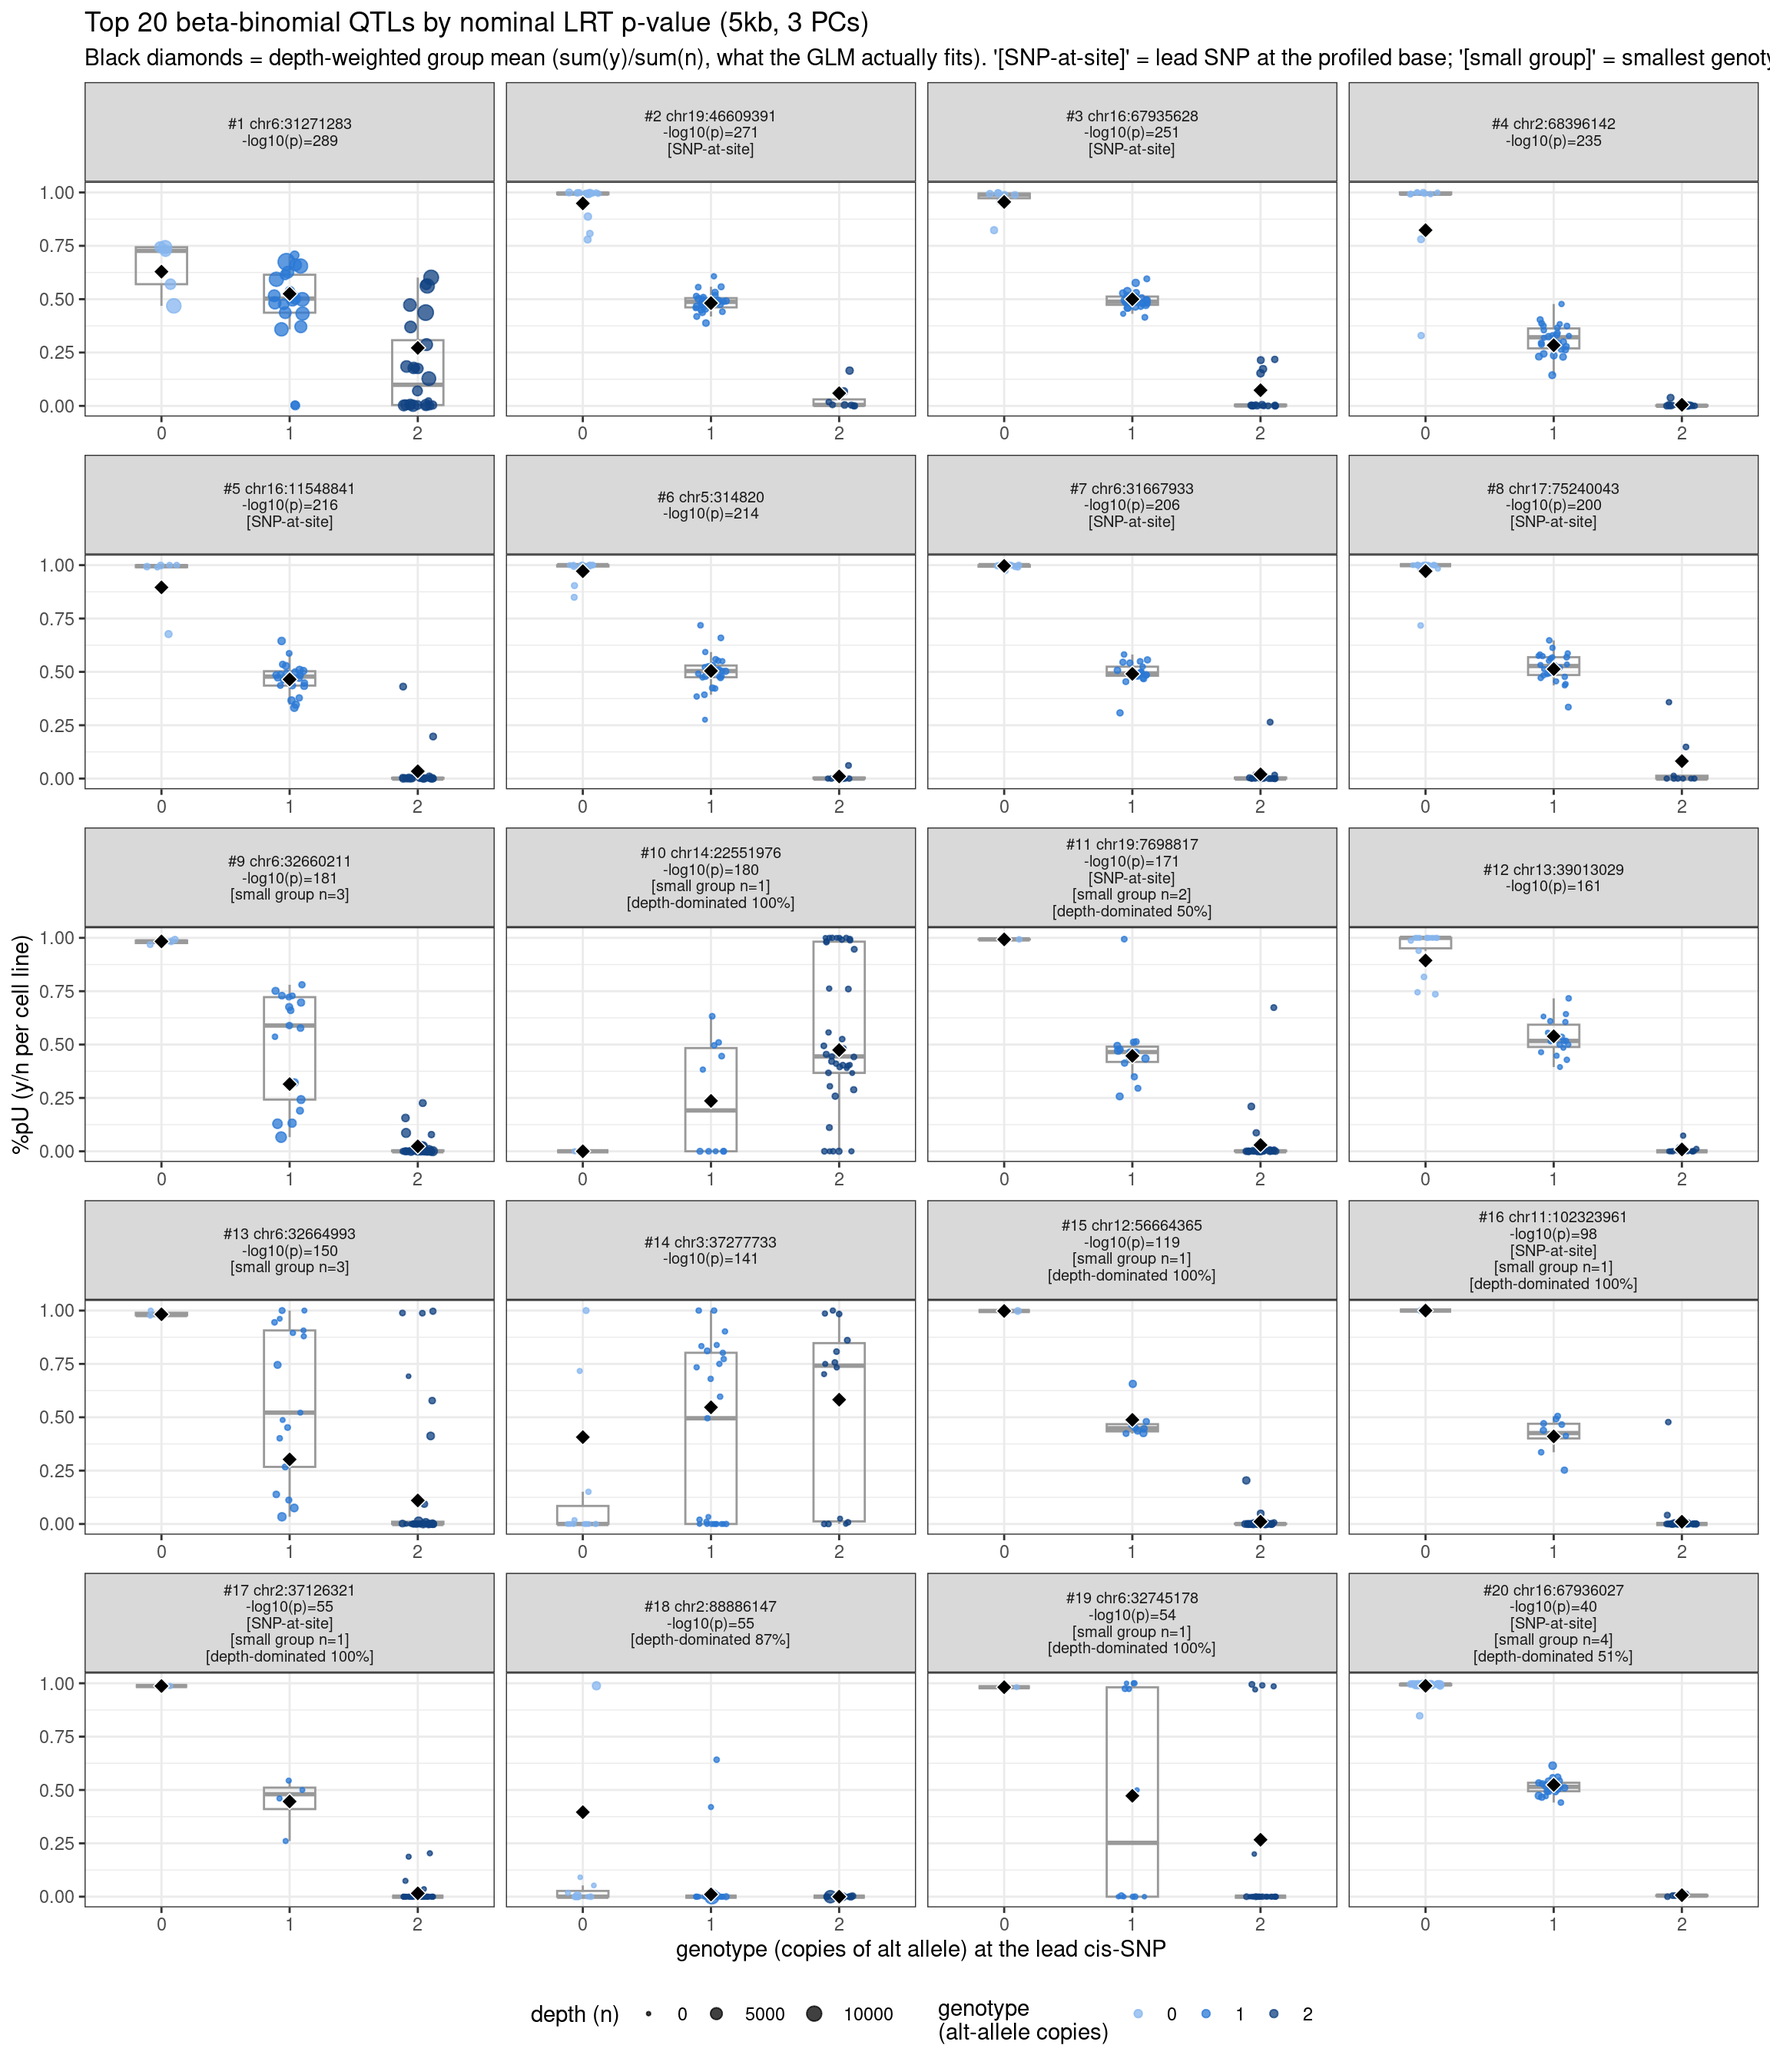
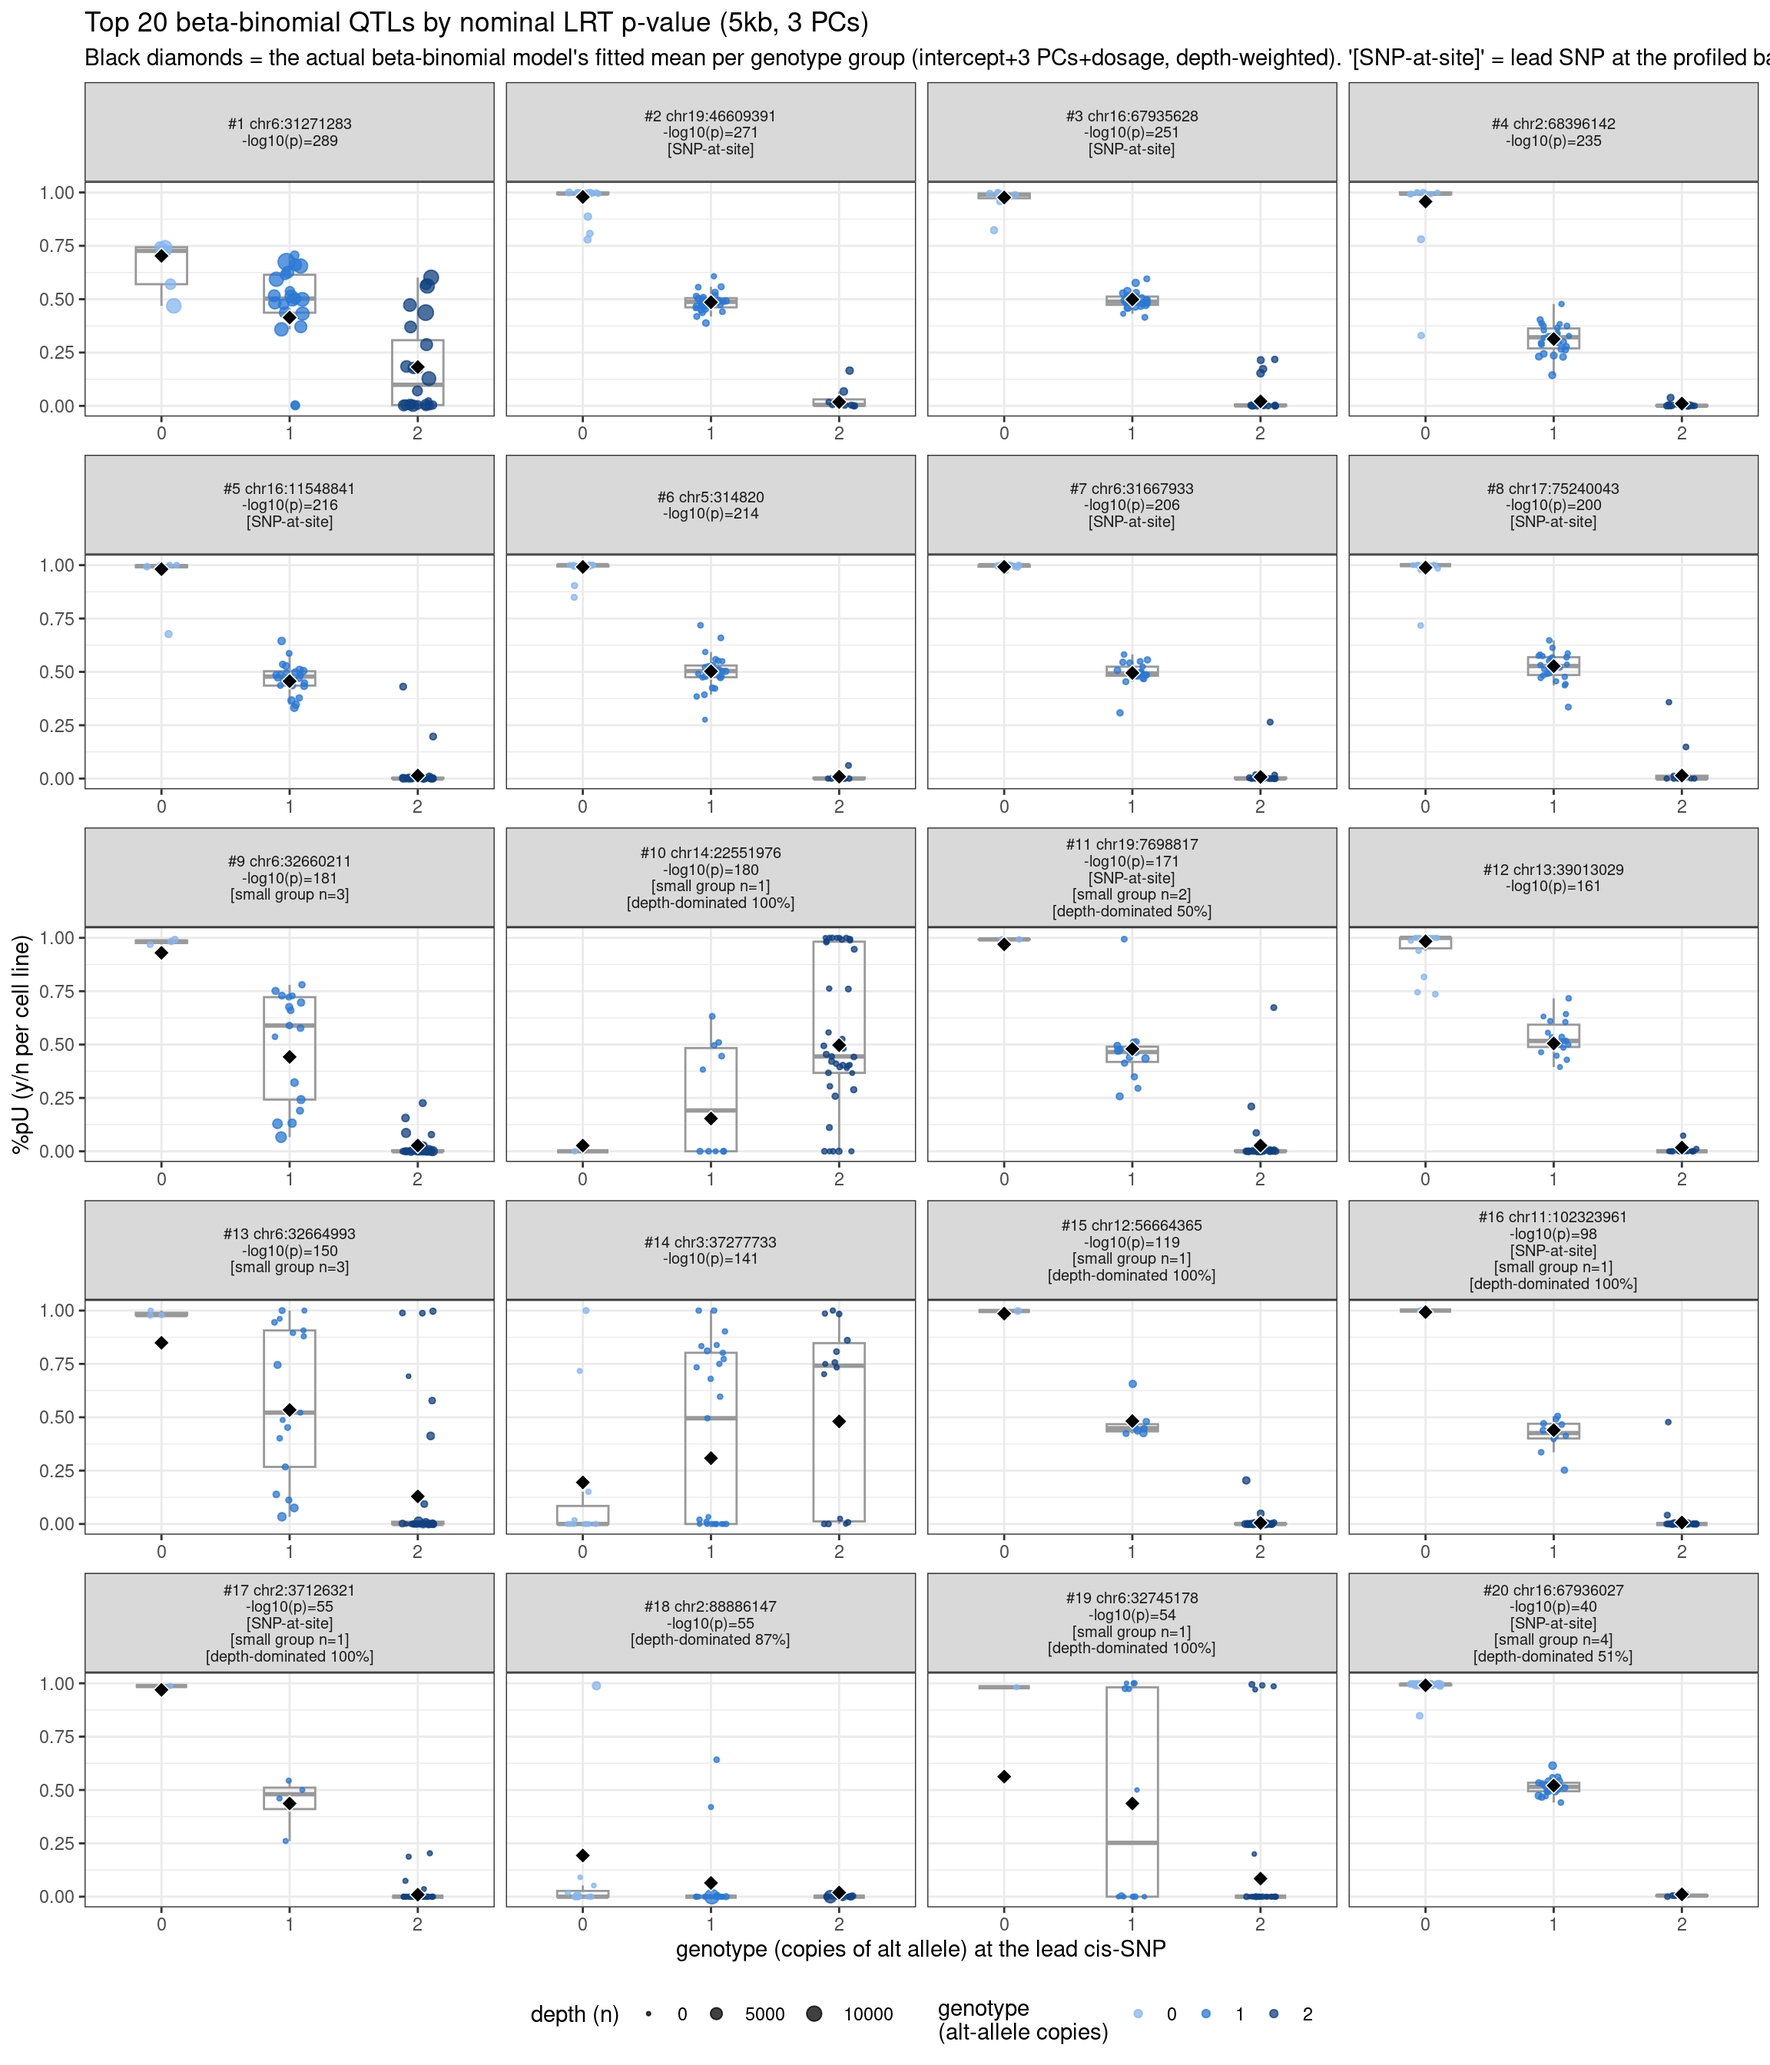
update

Changed region(s): [[0.1562, 0.0, 1.0, 0.0312]]

diff --git a/docs/qtl_mapping_betabinomial_diagnostic.html b/docs/qtl_mapping_betabinomial_diagnostic.html
@@ -537,15 +537,15 @@ project makes it easier to run your code on other machines.</p>
 <div class="panel panel-default">
 <div class="panel-heading">
 <p class="panel-title">
-<a data-toggle="collapse" data-parent="#workflowr-checks" href="#strongRepositoryversionstrongahrefhttpsgithubcomxsun1229pumseqtreec836d6a7345ec3c6d478219bf5874f297473312ftargetblankc836d6aa">
+<a data-toggle="collapse" data-parent="#workflowr-checks" href="#strongRepositoryversionstrongahrefhttpsgithubcomxsun1229pumseqtree1ba19a8f317db5d2ade58457bcd54c3838b92545targetblank1ba19a8a">
 <span class="glyphicon glyphicon-ok text-success"
 aria-hidden="true"></span> <strong>Repository version:</strong>
-<a href="https://github.com/xsun1229/pumseq/tree/c836d6a7345ec3c6d478219bf5874f297473312f" target="_blank">c836d6a</a>
+<a href="https://github.com/xsun1229/pumseq/tree/1ba19a8f317db5d2ade58457bcd54c3838b92545" target="_blank">1ba19a8</a>
 </a>
 </p>
 </div>
 <div
[2 lines of base64/hex data omitted]
 class="panel-collapse collapse">
 <div class="panel-body">
 <p>
@@ -555,7 +555,7 @@ reproducibility.
 </p>
 <p>
 The results in this page were generated with repository version
-<a href="https://github.com/xsun1229/pumseq/tree/c836d6a7345ec3c6d478219bf5874f297473312f" target="_blank">c836d6a</a>.
+<a href="https://github.com/xsun1229/pumseq/tree/1ba19a8f317db5d2ade58457bcd54c3838b92545" target="_blank">1ba19a8</a>.
 See the <em>Past versions</em> tab to see a history of the changes made
 to the R Markdown and HTML files.
 </p>
@@ -573,9 +573,7 @@ Ignored files:
     Ignored:    analysis/qtl_mapping_summary_cache/
 
 Unstaged changes:
-    Modified:   analysis/index.Rmd
     Modified:   analysis/qtl_mapping_betabinomial_diagnostic.Rmd
-    Deleted:    analysis/qtl_mapping_betabinomial_diagnostic.knit.md
 
 </code></pre>
 <p>
@@ -622,6 +620,40 @@ Message
 </tr>
 </thead>
 <tbody>
+<tr>
+<td>
+Rmd
+</td>
+<td>
+<a href="https://github.com/xsun1229/pumseq/blob/1ba19a8f317db5d2ade58457bcd54c3838b92545/analysis/qtl_mapping_betabinomial_diagnostic.Rmd" target="_blank">1ba19a8</a>
+</td>
+<td>
+XSun
+</td>
+<td>
+2026-08-01
+</td>
+<td>
+update
+</td>
+</tr>
+<tr>
+<td>
+html
+</td>
+<td>
+<a href="https://rawcdn.githack.com/xsun1229/pumseq/1ba19a8f317db5d2ade58457bcd54c3838b92545/docs/qtl_mapping_betabinomial_diagnostic.html" target="_blank">1ba19a8</a>
+</td>
+<td>
+XSun
+</td>
+<td>
+2026-08-01
+</td>
+<td>
+update
+</td>
+</tr>
 <tr>
 <td>
 Rmd
@@ -836,10 +868,27 @@ effect.</p>
 <div id="top-20-qtls-pu-by-genotype-at-the-lead-cis-snp"
 class="section level1">
 <h1>2. Top 20 QTLs: %pU by genotype at the lead cis-SNP</h1>
-<pre class="r"><code>C &lt;- fread(file.path(COUNTS, &quot;C_matrix.txt.gz&quot;)); N &lt;- fread(file.path(COUNTS, &quot;N_matrix.txt.gz&quot;))
+<p>Each panel below marks a black diamond per genotype group: the
+group’s depth-weighted average of the <strong>actual beta-binomial
+model’s fitted mean</strong> (same design as the real scan — intercept +
+3 M-value PCs + genotype dosage — refit here with
+<code>fit_bb_mle()</code>), not just a visual summary of the raw
+scatter. An earlier version of this page used a simpler proxy
+(<code>sum(y)/sum(n)</code> per group, ignoring the PC covariates and
+dispersion correction); checking that proxy against this true fit
+directly showed agreement at low-dispersion sites but a gap of up to
+~0.13 in probability at higher-<code>phi</code> sites, so the actual
+model fit is shown here instead.</p>
+<pre class="r"><code>source(file.path(PROJECT_DIR, &quot;4.qtl_mapping_betabinomial/betabin_lib.R&quot;))
+COVAR &lt;- file.path(BASE, &quot;phenotype/fold5_union/mvalue_pcs.txt&quot;)
+
+C &lt;- fread(file.path(COUNTS, &quot;C_matrix.txt.gz&quot;)); N &lt;- fread(file.path(COUNTS, &quot;N_matrix.txt.gz&quot;))
 psam &lt;- fread(PSAM); go &lt;- psam[[2]]
 Cm &lt;- as.matrix(C[, ..go]); Nm &lt;- as.matrix(N[, ..go])
 sites &lt;- C[, .(ref = as.character(ref), pos = as.integer(pos))]
+
+cov &lt;- fread(COVAR); stopifnot(identical(cov$sample, go))
+Xcov &lt;- cbind(Intercept = 1, as.matrix(cov[, paste0(&quot;PC&quot;, seq_len(NPCS)), with = FALSE]))   # same design the actual scan uses
 
 traw &lt;- fread(TRAW); samp &lt;- paste0(go, &quot;_&quot;, go)
 Gall &lt;- t(as.matrix(traw[, ..samp])); gid &lt;- traw$SNP</code></pre>
@@ -865,20 +914,27 @@ rows &lt;- rbindlist(lapply(seq_len(nrow(top20)), function(i) {
     if (min_grp &lt; MIN_GRP) sprintf(&quot;\n[small group n=%d]&quot;, min_grp) else &quot;&quot;,
     if (max_depth_share &gt; DEPTH_SHARE_THRESH) sprintf(&quot;\n[depth-dominated %.0f%%]&quot;, 100 * max_depth_share) else &quot;&quot;
   )
+  # true full-model fitted mean per individual (intercept + NPCS M-value PCs +
+  # genotype dosage -- the EXACT design the LRT scan itself uses), not a naive
+  # binomial-only proxy: checked directly (see prose below) that a simpler
+  # sum(y)/sum(n) per-group proxy can be off by up to ~0.13 in probability at
+  # higher-phi sites, since it ignores both the PC covariates and the
+  # dispersion correction that this fit applies
+  fit &lt;- tryCatch(fit_bb_mle(y, n, cbind(Xcov, g = g)), error = function(e) NULL)
+  mu_fit &lt;- if (!is.null(fit)) fit$mu0 else rep(NA_real_, length(y))
   data.table(
     rank = s$rank,
     site_lab = sprintf(&quot;#%d chr%s:%.0f\n-log10(p)=%.0f%s&quot;,
                         s$rank, s$ref, s$pos, -log10(max(s$nominal_min_p, 1e-300)), flags),
-    g = factor(g, levels = 0:2), pi = pi_v, n = n, y = y,
+    g = factor(g, levels = 0:2), pi = pi_v, n = n, y = y, mu_fit = mu_fit,
     snp_at_site = s$lead_pos == s$pos, min_grp = min_grp, max_depth_share = max_depth_share
   )
 }))
 rows[, site_lab := factor(site_lab, levels = unique(site_lab[order(rank)]))]
 
-# depth-weighted mean per (site, genotype group) -- sum(y)/sum(n), the exact
-# quantity a binomial/beta-binomial GLM fits as that group&#39;s mean (verified
-# directly against glm() fitted values in the conversation behind this page)
-dw_means &lt;- rows[, .(dw_mean = sum(y) / sum(n)), by = .(site_lab, g)]
+# per-group depth-weighted average of the TRUE model-fitted mean (not the
+# raw observed y/n) -- this is what actually enters the LRT&#39;s log-likelihood
+dw_means &lt;- rows[!is.na(mu_fit), .(dw_mean = sum(mu_fit * n) / sum(n)), by = .(site_lab, g)]
 
 blue3 &lt;- c(`0` = &quot;#86b6ef&quot;, `1` = &quot;#2a78d6&quot;, `2` = &quot;#104281&quot;)
 
@@ -893,7 +949,7 @@ ggplot(rows, aes(x = g, y = pi, color = g)) +
   labs(x = &quot;genotype (copies of alt allele) at the lead cis-SNP&quot;, y = &quot;%pU (y/n per cell line)&quot;,
        title = sprintf(&quot;Top %d beta-binomial QTLs by nominal LRT p-value (%dkb, %d PCs)&quot;,
                        N_TOP, WINDOW_KB, NPCS),
-       subtitle = &quot;Black diamonds = depth-weighted group mean (sum(y)/sum(n), what the GLM actually fits). &#39;[SNP-at-site]&#39; = lead SNP at the profiled base; &#39;[small group]&#39; = smallest genotype class &lt;5 cell lines; &#39;[depth-dominated]&#39; = one cell line &gt;50% of its group&#39;s total depth.&quot;) +
+       subtitle = &quot;Black diamonds = the actual beta-binomial model&#39;s fitted mean per genotype group (intercept+3 PCs+dosage, depth-weighted). &#39;[SNP-at-site]&#39; = lead SNP at the profiled base; &#39;[small group]&#39; = smallest genotype class &lt;5 cell lines; &#39;[depth-dominated]&#39; = one cell line &gt;50% of its group&#39;s total depth.&quot;) +
   theme_bw(base_size = 11) +
   theme(legend.position = &quot;bottom&quot;, strip.text = element_text(size = 7.5))</code></pre>
 <p><img src="figure/qtl_mapping_betabinomial_diagnostic.Rmd/top20-select-1.png" width="1152" style="display: block; margin: auto;" /></p>
@@ -919,6 +975,17 @@ Date
 </tr>
 </thead>
 <tbody>
+<tr>
+<td>
+<a href="https://github.com/xsun1229/pumseq/blob/1ba19a8f317db5d2ade58457bcd54c3838b92545/docs/figure/qtl_mapping_betabinomial_diagnostic.Rmd/top20-select-1.png" target="_blank">1ba19a8</a>
+</td>
+<td>
+XSun
+</td>
+<td>
+2026-08-01
+</td>
+</tr>
 <tr>
 <td>
 <a href="https://github.com/xsun1229/pumseq/blob/4fa878a14a65f49627dd80cd86e3539fbfee3cff/docs/figure/qtl_mapping_betabinomial_diagnostic.Rmd/top20-select-1.png" target="_blank">4fa878a</a>
@@ -1208,6 +1275,7 @@ rows_p1 &lt;- rbindlist(lapply(seq_len(nrow(p1_top20)), function(i) {
   si &lt;- which(sites$ref == as.character(s$ref) &amp; sites$pos == s$pos)
   gi &lt;- which(gid == s$lead_snp)
   y &lt;- Cm[si, ord]; n &lt;- Nm[si, ord]; g &lt;- Gall[, gi]   # phenotype permuted, genotype fixed -- same pairing as the calibration check
+  Xp &lt;- Xcov[ord, , drop = FALSE]   # covariates travel WITH the permuted phenotype, same rule as the calibration check
   pi_v &lt;- y / n
   grp_tab &lt;- table(g)
   min_grp &lt;- min(grp_tab)
@@ -1218,16 +1286,18 @@ rows_p1 &lt;- rbindlist(lapply(seq_len(nrow(p1_top20)), function(i) {
     if (min_grp &lt; MIN_GRP) sprintf(&quot;\n[small group n=%d]&quot;, min_grp) else &quot;&quot;,
     if (max_depth_share &gt; DEPTH_SHARE_THRESH) sprintf(&quot;\n[depth-dominated %.0f%%]&quot;, 100 * max_depth_share) else &quot;&quot;
   )
+  fit &lt;- tryCatch(fit_bb_mle(y, n, cbind(Xp, g = g)), error = function(e) NULL)
+  mu_fit &lt;- if (!is.null(fit)) fit$mu0 else rep(NA_real_, length(y))
   data.table(
     rank = s$rank,
     site_lab = sprintf(&quot;#%d chr%s:%.0f\n-log10(p)=%.0f%s&quot;,
                         s$rank, s$ref, s$pos, -log10(max(s$nominal_min_p, 1e-300)), flags),
-    g = factor(g, levels = 0:2), pi = pi_v, n = n, y = y
+    g = factor(g, levels = 0:2), pi = pi_v, n = n, y = y, mu_fit = mu_fit
   )
 }))
 rows_p1[, site_lab := factor(site_lab, levels = unique(site_lab[order(rank)]))]
 
-dw_means_p1 &lt;- rows_p1[, .(dw_mean = sum(y) / sum(n)), by = .(site_lab, g)]
+dw_means_p1 &lt;- rows_p1[!is.na(mu_fit), .(dw_mean = sum(mu_fit * n) / sum(n)), by = .(site_lab, g)]
 
 ggplot(rows_p1, aes(x = g, y = pi, color = g)) +
   geom_boxplot(aes(group = g), outlier.shape = NA, width = 0.4, color = &quot;grey60&quot;, fill = NA) +
@@ -1240,10 +1310,47 @@ ggplot(rows_p1, aes(x = g, y = pi, color = g)) +
   labs(x = &quot;genotype (fixed) vs. PERMUTED phenotype at the lead cis-SNP&quot;,
        y = &quot;%pU (y/n per cell line, permuted individual order)&quot;,
        title = sprintf(&quot;Top %d sites under permutation-1 (genotype-phenotype pairing randomized)&quot;, N_TOP),
-       subtitle = &quot;Black diamonds = depth-weighted group mean (sum(y)/sum(n), what the GLM actually fits). Same seed as the LRT calibration check&#39;s perm1 (set.seed(1001)).&quot;) +
+       subtitle = &quot;Black diamonds = the actual beta-binomial model&#39;s fitted mean per genotype group (intercept+3 PCs+dosage, depth-weighted; covariates permuted with phenotype, genotype fixed). Same seed as the LRT calibration check&#39;s perm1 (set.seed(1001)).&quot;) +
   theme_bw(base_size = 11) +
   theme(legend.position = &quot;bottom&quot;, strip.text = element_text(size = 7.5))</code></pre>
 <p><img src="figure/qtl_mapping_betabinomial_diagnostic.Rmd/perm1-plot-1.png" width="1152" style="display: block; margin: auto;" /></p>
+<p>
+<button type="button" class="btn btn-default btn-xs btn-workflowr btn-workflowr-fig" data-toggle="collapse" data-target="#fig-perm1-plot-1">
+Past versions of perm1-plot-1.png
+</button>
+</p>
+<div id="fig-perm1-plot-1" class="collapse">
+<div class="table-responsive">
+<table class="table table-condensed table-hover">
+<thead>
+<tr>
+<th>
+Version
+</th>
+<th>
+Author
+</th>
+<th>
+Date
+</th>
+</tr>
+</thead>
+<tbody>
+<tr>
+<td>
+<a href="https://github.com/xsun1229/pumseq/blob/1ba19a8f317db5d2ade58457bcd54c3838b92545/docs/figure/qtl_mapping_betabinomial_diagnostic.Rmd/perm1-plot-1.png" target="_blank">1ba19a8</a>
+</td>
+<td>
+XSun
+</td>
+<td>
+2026-08-01
+</td>
+</tr>
+</tbody>
+</table>
+</div>
+</div>
 <p>Unlike the real top-20 plot above, these panels show <strong>no clean
 separation between genotype groups</strong> — heavily overlapping, noisy
 scatter within each group. Yet the p-values are just as extreme, and the
